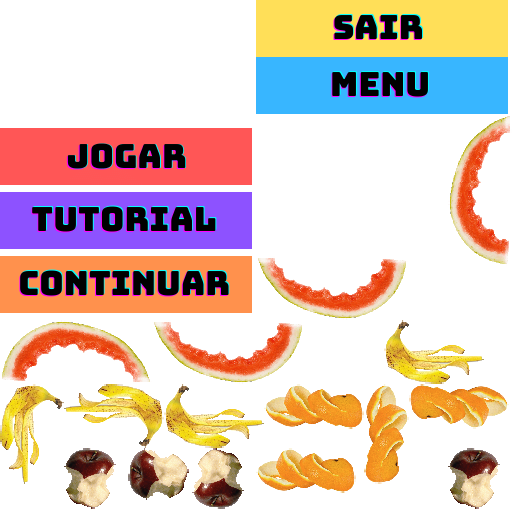
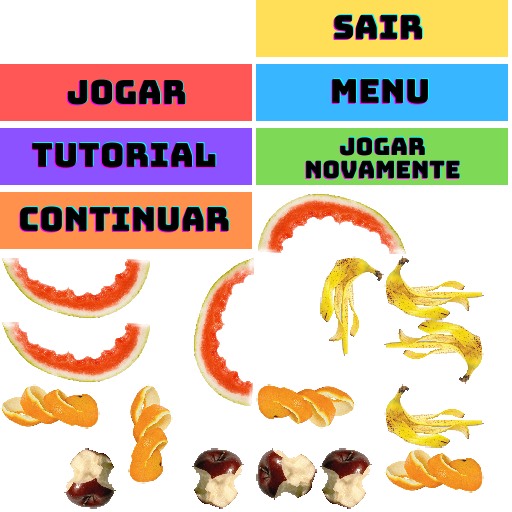
v2.7 bt novamente

diff --git a/scripts/c3runtime.js b/scripts/c3runtime.js
@@ -2916,6 +2916,27 @@ map.set(this,self.IInstance._GetInitInst().GetSdkInstance())}}};
 'use strict';{const C3=self.C3;C3.Plugins.iframe.Exps={}};
 
 
+'use strict';{const C3=self.C3;const DOM_COMPONENT_ID="file-chooser";C3.Plugins.filechooser=class FileChooserPlugin extends C3.SDKDOMPluginBase{constructor(opts){super(opts,DOM_COMPONENT_ID);this.AddElementMessageHandler("change",(sdkInst,e)=>sdkInst._OnChange(e))}Release(){super.Release()}}};
+
+
+'use strict';{const C3=self.C3;C3.Plugins.filechooser.Type=class FileChooserType extends C3.SDKTypeBase{constructor(objectClass){super(objectClass)}Release(){super.Release()}OnCreate(){}}};
+
+
+'use strict';{const C3=self.C3;const ACCEPT=0;const SELECT=1;const INITIALLY_VISIBLE=2;const ID=3;const SINGLE=0;const MULTIPLE=1;const DOM_COMPONENT_ID="file-chooser";C3.Plugins.filechooser.Instance=class FileChooserInstance extends C3.SDKDOMInstanceBase{constructor(inst,properties){super(inst,DOM_COMPONENT_ID);this._accept="";this._isMultiSelect=false;this._id="";this._files=[];if(properties){this._accept=properties[ACCEPT];this._isMultiSelect=properties[SELECT]!==SINGLE;this.GetWorldInfo().SetVisible(properties[INITIALLY_VISIBLE]);
+this._id=properties[ID]}this.CreateElement({"id":this._id})}Release(){super.Release()}GetElementState(){return{"accept":this._accept,"isMultiSelect":this._isMultiSelect}}_GetFileAt(index){index=Math.floor(index);if(index<0||index>=this._files.length)return null;return this._files[index]}async _OnChange(e){this._files=e["files"];await this.TriggerAsync(C3.Plugins.filechooser.Cnds.OnChanged)}Draw(renderer){}GetPropertyValueByIndex(index){switch(index){case ACCEPT:return this._accept;case SELECT:return this._isMultiSelect?
+MULTIPLE:SINGLE;case ID:return this._id}}SetPropertyValueByIndex(index,value){switch(index,value){case ACCEPT:if(this._accept===value)return;this._accept=value;this.UpdateElementState();break;case SELECT:if(this._isMultiSelect===(value!==SINGLE))return;this._isMultiSelect=value!==SINGLE;this.UpdateElementState();break;case ID:if(this._id===value)return;this._id=value;this.UpdateElementState();break}}}};
+
+
+'use strict';{const C3=self.C3;C3.Plugins.filechooser.Cnds={OnChanged(){return true}}};
+
+
+'use strict';{const C3=self.C3;C3.Plugins.filechooser.Acts={ReleaseFile(f){URL.revokeObjectURL(f)},Click(){this._PostToDOMElementMaybeSync("click")}}};
+
+
+'use strict';{const C3=self.C3;const urlCache=new WeakMap;C3.Plugins.filechooser.Exps={FileCount(){return this._files.length},FileNameAt(i){const file=this._GetFileAt(i);return file?file["name"]||"":""},FileSizeAt(i){const file=this._GetFileAt(i);return file?file["size"]||0:0},FileTypeAt(i){const file=this._GetFileAt(i);return file?file["type"]||"":""},FileURLAt(i){const file=this._GetFileAt(i);if(!file)return"";let url=urlCache.get(file);if(url)return url;url=URL.createObjectURL(file);urlCache.set(file,
+url);return url}}};
+
+
 'use strict';{const C3=self.C3;C3.Behaviors.Bullet=class BulletBehavior extends C3.SDKBehaviorBase{constructor(opts){super(opts)}Release(){super.Release()}}};
 
 
@@ -3052,6 +3073,7 @@ newY);wi.SetBboxChanged()}}else if(this._axes===1){if(wi.GetX()!==newX){wi.SetX(
 		C3.Behaviors.bound,
 		C3.Plugins.Spritefont2,
 		C3.Plugins.iframe,
+		C3.Plugins.filechooser,
 		C3.Behaviors.DragnDrop,
 		C3.Plugins.System.Cnds.OnLayoutStart,
 		C3.Plugins.Audio.Acts.Play,
@@ -3104,6 +3126,7 @@ newY);wi.SetBboxChanged()}}else if(this._axes===1){if(wi.GetX()!==newX){wi.SetX(
 		C3.Plugins.Mouse.Cnds.IsOverObject,
 		C3.Plugins.Keyboard.Cnds.OnKey,
 		C3.Plugins.Sprite.Acts.SetPosToObject,
+		C3.Plugins.System.Acts.ResetGlobals,
 		C3.Plugins.Mouse.Cnds.OnObjectClicked,
 		C3.Plugins.Touch.Cnds.OnTouchObject,
 		C3.Plugins.System.Acts.Wait,
@@ -3146,6 +3169,7 @@ newY);wi.SetBboxChanged()}}else if(this._axes===1){if(wi.GetX()!==newX){wi.SetX(
 		{bt_menu: 0},
 		{bt_continuar: 0},
 		{Itens: 0},
+		{bt_novamente: 0},
 		{FundoEmBlocos: 0},
 		{Mouse_menu: 0},
 		{Teclado_menu: 0},
@@ -3173,6 +3197,7 @@ newY);wi.SetBboxChanged()}}else if(this._axes===1){if(wi.GetX()!==newX){wi.SetX(
 		{Sprite4: 0},
 		{Sprite5: 0},
 		{Sprite6: 0},
+		{SelecionadorDeArquivo: 0},
 		{ArrastarSoltar: 0},
 		{MoverPara2: 0},
 		{lixoReciclavel: 0},
@@ -3412,6 +3437,7 @@ newY);wi.SetBboxChanged()}}else if(this._axes===1){if(wi.GetX()!==newX){wi.SetX(
 			const n0 = p._GetNode(0);
 			return () => n0.ExpInstVar_Family();
 		},
+		() => "|    Fase 03   |\n|  Nome  | seg |\n",
 		() => 12,
 		p => {
 			const f0 = p._GetNode(0).GetBoundMethod();

diff --git a/scripts/main.js b/scripts/main.js
@@ -224,3 +224,6 @@ err);return false}}};self.RuntimeInterface.AddDOMHandlerClass(HANDLER_CLASS)};
 "none";const ua=navigator.userAgent;if(/iphone|ipad|ipod/i.test(ua)){const verResult=/(iphone\s+os|ipad[^)]*os)\s+([0-9_]+)/i.exec(ua);const iOSVersion=parseInt(verResult[verResult.length-1]);if(iOSVersion<=12||isNaN(iOSVersion)){iframe.setAttribute("noresize","noresize");iframe.setAttribute("scrolling","no")}}if(!e["isVisible"])iframe.style.display="none";if(e["id"])iframe.id=e["id"];if(e["allow"]){iframe.setAttribute("allow",e["allow"]);if(e["allow"].includes("fullscreen"))iframe.setAttribute("allowfullscreen",
 "")}if(e["enableSandbox"])iframe.setAttribute("sandbox",e["sandbox"]);if(e["url"])iframe.src=e["url"];else if(e["html"])this._OnDisplayHTML(iframe,e);return iframe}UpdateState(iframe,e){}_SetSrc(iframe,url){if(iframe.src.startsWith("blob:")&&this._isDisplayingHtmlStr)URL.revokeObjectURL(iframe.src);iframe.src=url}DestroyElement(iframe){this._SetSrc(iframe,"");this._isDisplayingHtmlStr=false}_OnNavigateURL(iframe,e){this._SetSrc(iframe,e["url"]);this._isDisplayingHtmlStr=false}_OnDisplayHTML(iframe,
 e){const blob=new Blob([e["html"]],{"type":"text/html"});this._SetSrc(iframe,URL.createObjectURL(blob));this._isDisplayingHtmlStr=true}};self.RuntimeInterface.AddDOMHandlerClass(HANDLER_CLASS)};
+'use strict';{const DOM_COMPONENT_ID="file-chooser";function StopPropagation(e){e.stopPropagation()}const HANDLER_CLASS=class FileChooserDOMHandler extends self.DOMElementHandler{constructor(iRuntime){super(iRuntime,DOM_COMPONENT_ID);this.AddDOMElementMessageHandler("click",(elem,e)=>this._Click(elem,e))}CreateElement(elementId,e){const elem=document.createElement("input");elem.type="file";elem.style.position="absolute";elem.style.userSelect="none";elem.style.webkitUserSelect="none";elem.addEventListener("touchstart",
+StopPropagation);elem.addEventListener("touchmove",StopPropagation);elem.addEventListener("touchend",StopPropagation);elem.addEventListener("mousedown",StopPropagation);elem.addEventListener("mouseup",StopPropagation);elem.addEventListener("change",()=>this.PostToRuntimeElement("change",elementId,{"files":Array.from(elem.files)}));if(e["id"])elem.id=e["id"];this.UpdateState(elem,e);return elem}UpdateState(elem,e){elem.setAttribute("accept",e["accept"]);if(e["isMultiSelect"])elem.setAttribute("multiple",
+"");else elem.removeAttribute("multiple")}_Click(elem,e){elem["click"]()}};self.RuntimeInterface.AddDOMHandlerClass(HANDLER_CLASS)};
